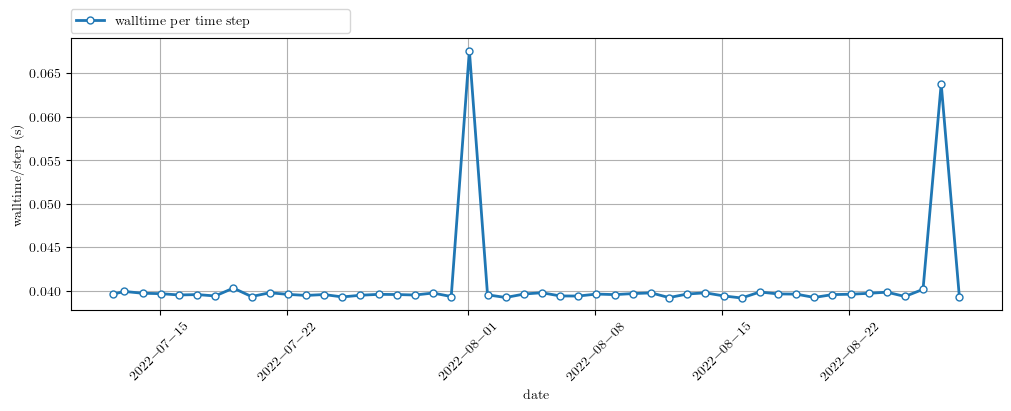
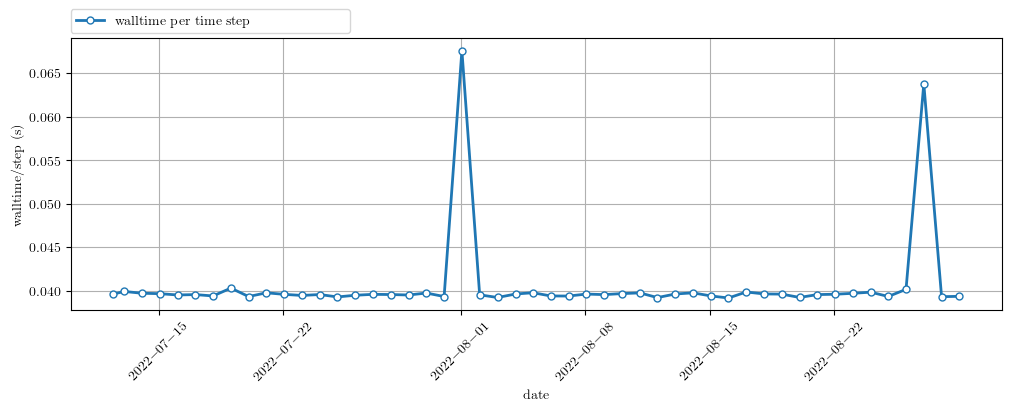
Automatic timing summary commit: lassen708 2022-08-29 01:00

diff --git a/README.md b/README.md
@@ -1,4 +1,4 @@
-Timings last ran on: 2022.08.28
+Timings last ran on: 2022.08.29
 
 # Status of production timings
 
